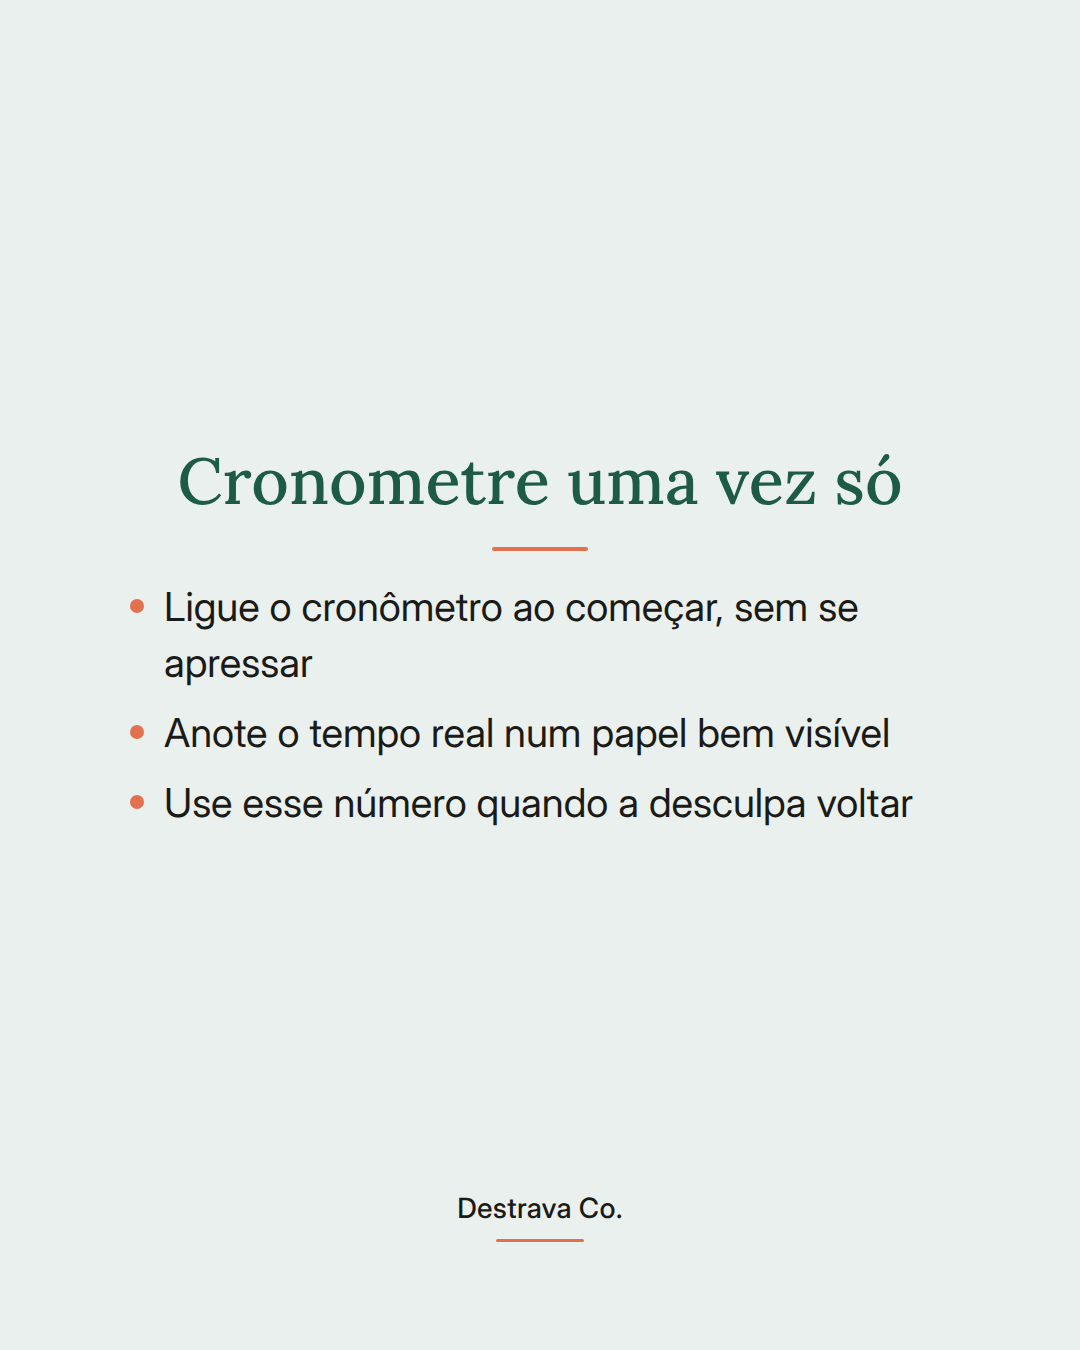
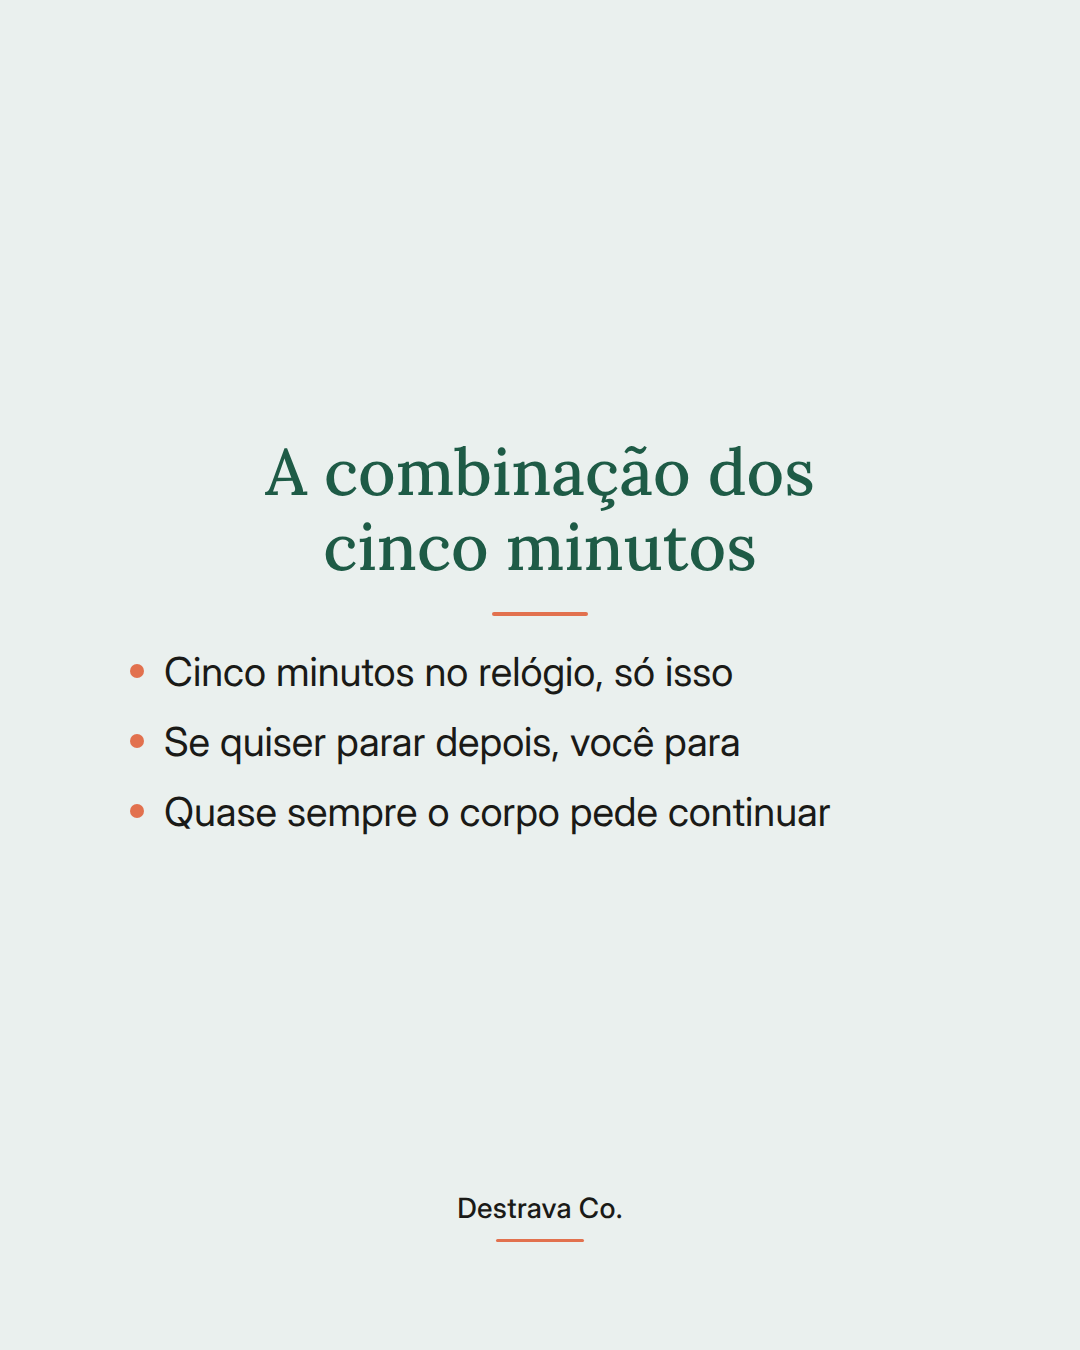
content: peças Instagram 2026_10_08

Changed region(s): [[0.1222, 0.3111, 0.8556, 0.56], [0.1222, 0.5911, 0.8556, 0.6222]]

diff --git a/public/content/2026_10_08/index.html b/public/content/2026_10_08/index.html
@@ -19,24 +19,24 @@
 </head>
 <body>
 <h1>Corpo · capa B (wash3)</h1>
-<div class="meta">2026-10-08 · gerado em 2026-10-08T10:02:53 · sticker sugerido nos Stories: emoji slider</div>
+<div class="meta">2026-10-08 · gerado em 2026-10-08T12:44:35 · sticker sugerido nos Stories: emoji slider</div>
 <h2>Carrossel</h2>
-<div class="strip"><img src="2026_10_08_-_Carrossel_Corpo_01.png" alt="Fundo wash3 da linha Corpo com o título em campo dizendo que você acha que leva meia hora e leva seis minutos." title="2026_10_08_-_Carrossel_Corpo_01.png"><img src="2026_10_08_-_Carrossel_Corpo_02.png" alt="Fundo wash1 bem claro com o título sobre o tempo imaginado ser maior e um texto curto abaixo." title="2026_10_08_-_Carrossel_Corpo_02.png"><img src="2026_10_08_-_Carrossel_Corpo_03.png" alt="Fundo wash1 bem claro com o título sobre cronometrar uma vez e três passos curtos listados." title="2026_10_08_-_Carrossel_Corpo_03.png"><img src="2026_10_08_-_Carrossel_Corpo_04.png" alt="Fundo wash1 bem claro com o título sobre o que fazer com o número e um texto curto abaixo." title="2026_10_08_-_Carrossel_Corpo_04.png"><img src="2026_10_08_-_Carrossel_Corpo_05.png" alt="Fundo campo profundo com texto creme convidando a conhecer o Destrava 21 e botão no tom de acento." title="2026_10_08_-_Carrossel_Corpo_05.png"></div>
+<div class="strip"><img src="2026_10_08_-_Carrossel_Corpo_01.png" alt="Lâmina com fundo wash3 da linha Corpo e título em campo dizendo que a vontade chega depois, não antes." title="2026_10_08_-_Carrossel_Corpo_01.png"><img src="2026_10_08_-_Carrossel_Corpo_02.png" alt="Lâmina de fundo bem claro com título no campo profundo explicando que a disposição aparece depois dos primeiros minutos." title="2026_10_08_-_Carrossel_Corpo_02.png"><img src="2026_10_08_-_Carrossel_Corpo_03.png" alt="Lâmina de fundo bem claro com título no campo profundo e três itens sobre a combinação dos cinco minutos." title="2026_10_08_-_Carrossel_Corpo_03.png"><img src="2026_10_08_-_Carrossel_Corpo_04.png" alt="Lâmina de fundo bem claro com título no campo profundo sugerindo avaliar o hábito depois de fazer, não antes." title="2026_10_08_-_Carrossel_Corpo_04.png"><img src="2026_10_08_-_Carrossel_Corpo_05.png" alt="Lâmina de fundo campo profundo com texto creme convidando pro Destrava 21 e botão no tom de acento." title="2026_10_08_-_Carrossel_Corpo_05.png"></div>
 <h2>Stories</h2>
-<div class="strip"><img class="story" src="2026_10_08_-_Stories_Corpo_01.png" alt="Fundo wash3 da linha Corpo com kicker novo no feed e o título sobre cronometrar o hábito adiado." title="2026_10_08_-_Stories_Corpo_01.png"><img class="story" src="2026_10_08_-_Stories_Corpo_02.png" alt="Stories em fundo verde profundo apresentando o programa Destrava 21 Mulheres com o endereço da página em destaque no chip coral." title="2026_10_08_-_Stories_Corpo_02.png"></div>
+<div class="strip"><img class="story" src="2026_10_08_-_Stories_Corpo_01.png" alt="Story com fundo wash3 da linha Corpo e título em campo convidando a deslizar pro feed." title="2026_10_08_-_Stories_Corpo_01.png"><img class="story" src="2026_10_08_-_Stories_Corpo_02.png" alt="Stories em fundo verde profundo apresentando o programa Destrava 21 Mulheres com o endereço da página em destaque no chip coral." title="2026_10_08_-_Stories_Corpo_02.png"></div>
 <div class="meta">1º · stories post do dia · <a href="2026_10_08_-_Stories_Corpo_01.png" download="2026_10_08_-_Stories_Corpo_01.png">⬇ baixar</a> · sticker de link → post do dia (permalink em publicado.json depois de publicar) · sticker extra sugerido: emoji slider</div><div class="meta">2º · stories oferta · <a href="2026_10_08_-_Stories_Corpo_02.png" download="2026_10_08_-_Stories_Corpo_02.png">⬇ baixar</a> · sticker de link → <a href="https://destravaco.com.br/d21-mulheres-inicial/">https://destravaco.com.br/d21-mulheres-inicial/</a></div>
 <div class="meta">Stories não vão pela API: baixe e poste no app colando o sticker de link.</div>
 <h2>Legenda</h2>
-<pre>Cronometre o hábito que você vive adiando: ele provavelmente leva menos tempo do que a sua cabeça diz.
+<pre>A vontade não vem antes do movimento: ela aparece quando você já começou.
 
-A gente não adia por preguiça. Adia por causa de um número inventado. Alongar parece meia hora. Caminhar na rua de casa parece um compromisso enorme. Quando você mede de verdade, costuma ser bem menos.
+A gente aprende a esperar o dia perfeito, a energia perfeita, o ânimo perfeito. Só que disposição não é um sinal verde que acende sozinho de manhã. Na maior parte das vezes, ela é consequência dos primeiros minutos.
 
-Faz o teste uma vez. Liga o cronômetro, faz no seu ritmo, anota o tempo real num lugar visível. Da próxima vez que a desculpa aparecer, você responde com um número concreto em vez de uma sensação.
+Por isso a combinação dos cinco minutos funciona tão bem. Você coloca o relógio, faz só o começo e se dá permissão real de parar depois. Sem drama, sem culpa. O corpo quase sempre pede mais um pouco, e quando não pede, tudo bem: você ainda manteve o hábito de pé.
 
-Depois é só encaixar esse tempo num espaço que a sua rotina já tem. O que cabe no dia ruim é o que vira constância.
+O erro é decidir se vale a pena enquanto você está cansada no sofá. Deixa essa avaliação pro fim.
 
-Salva pra lembrar no próximo dia corrido e manda pra uma amiga que também vive adiando. Se quiser fazer isso com acompanhamento, o Destrava 21 te espera na bio.
+Salva pra lembrar no próximo dia sem ânimo e manda pra uma amiga que vive esperando a motivação chegar. Se quiser um caminho pronto pra montar hábitos assim, o Destrava 21 te espera.
 
-<span class="tags">#rotinacorrida #constancia #habitossaudaveis #autocuidado #mulheresreais</span></pre>
+<span class="tags">#constancia #autocuidado #rotinacorrida #habitossaudaveis #mulheresreais</span></pre>
 </body>
 </html>
